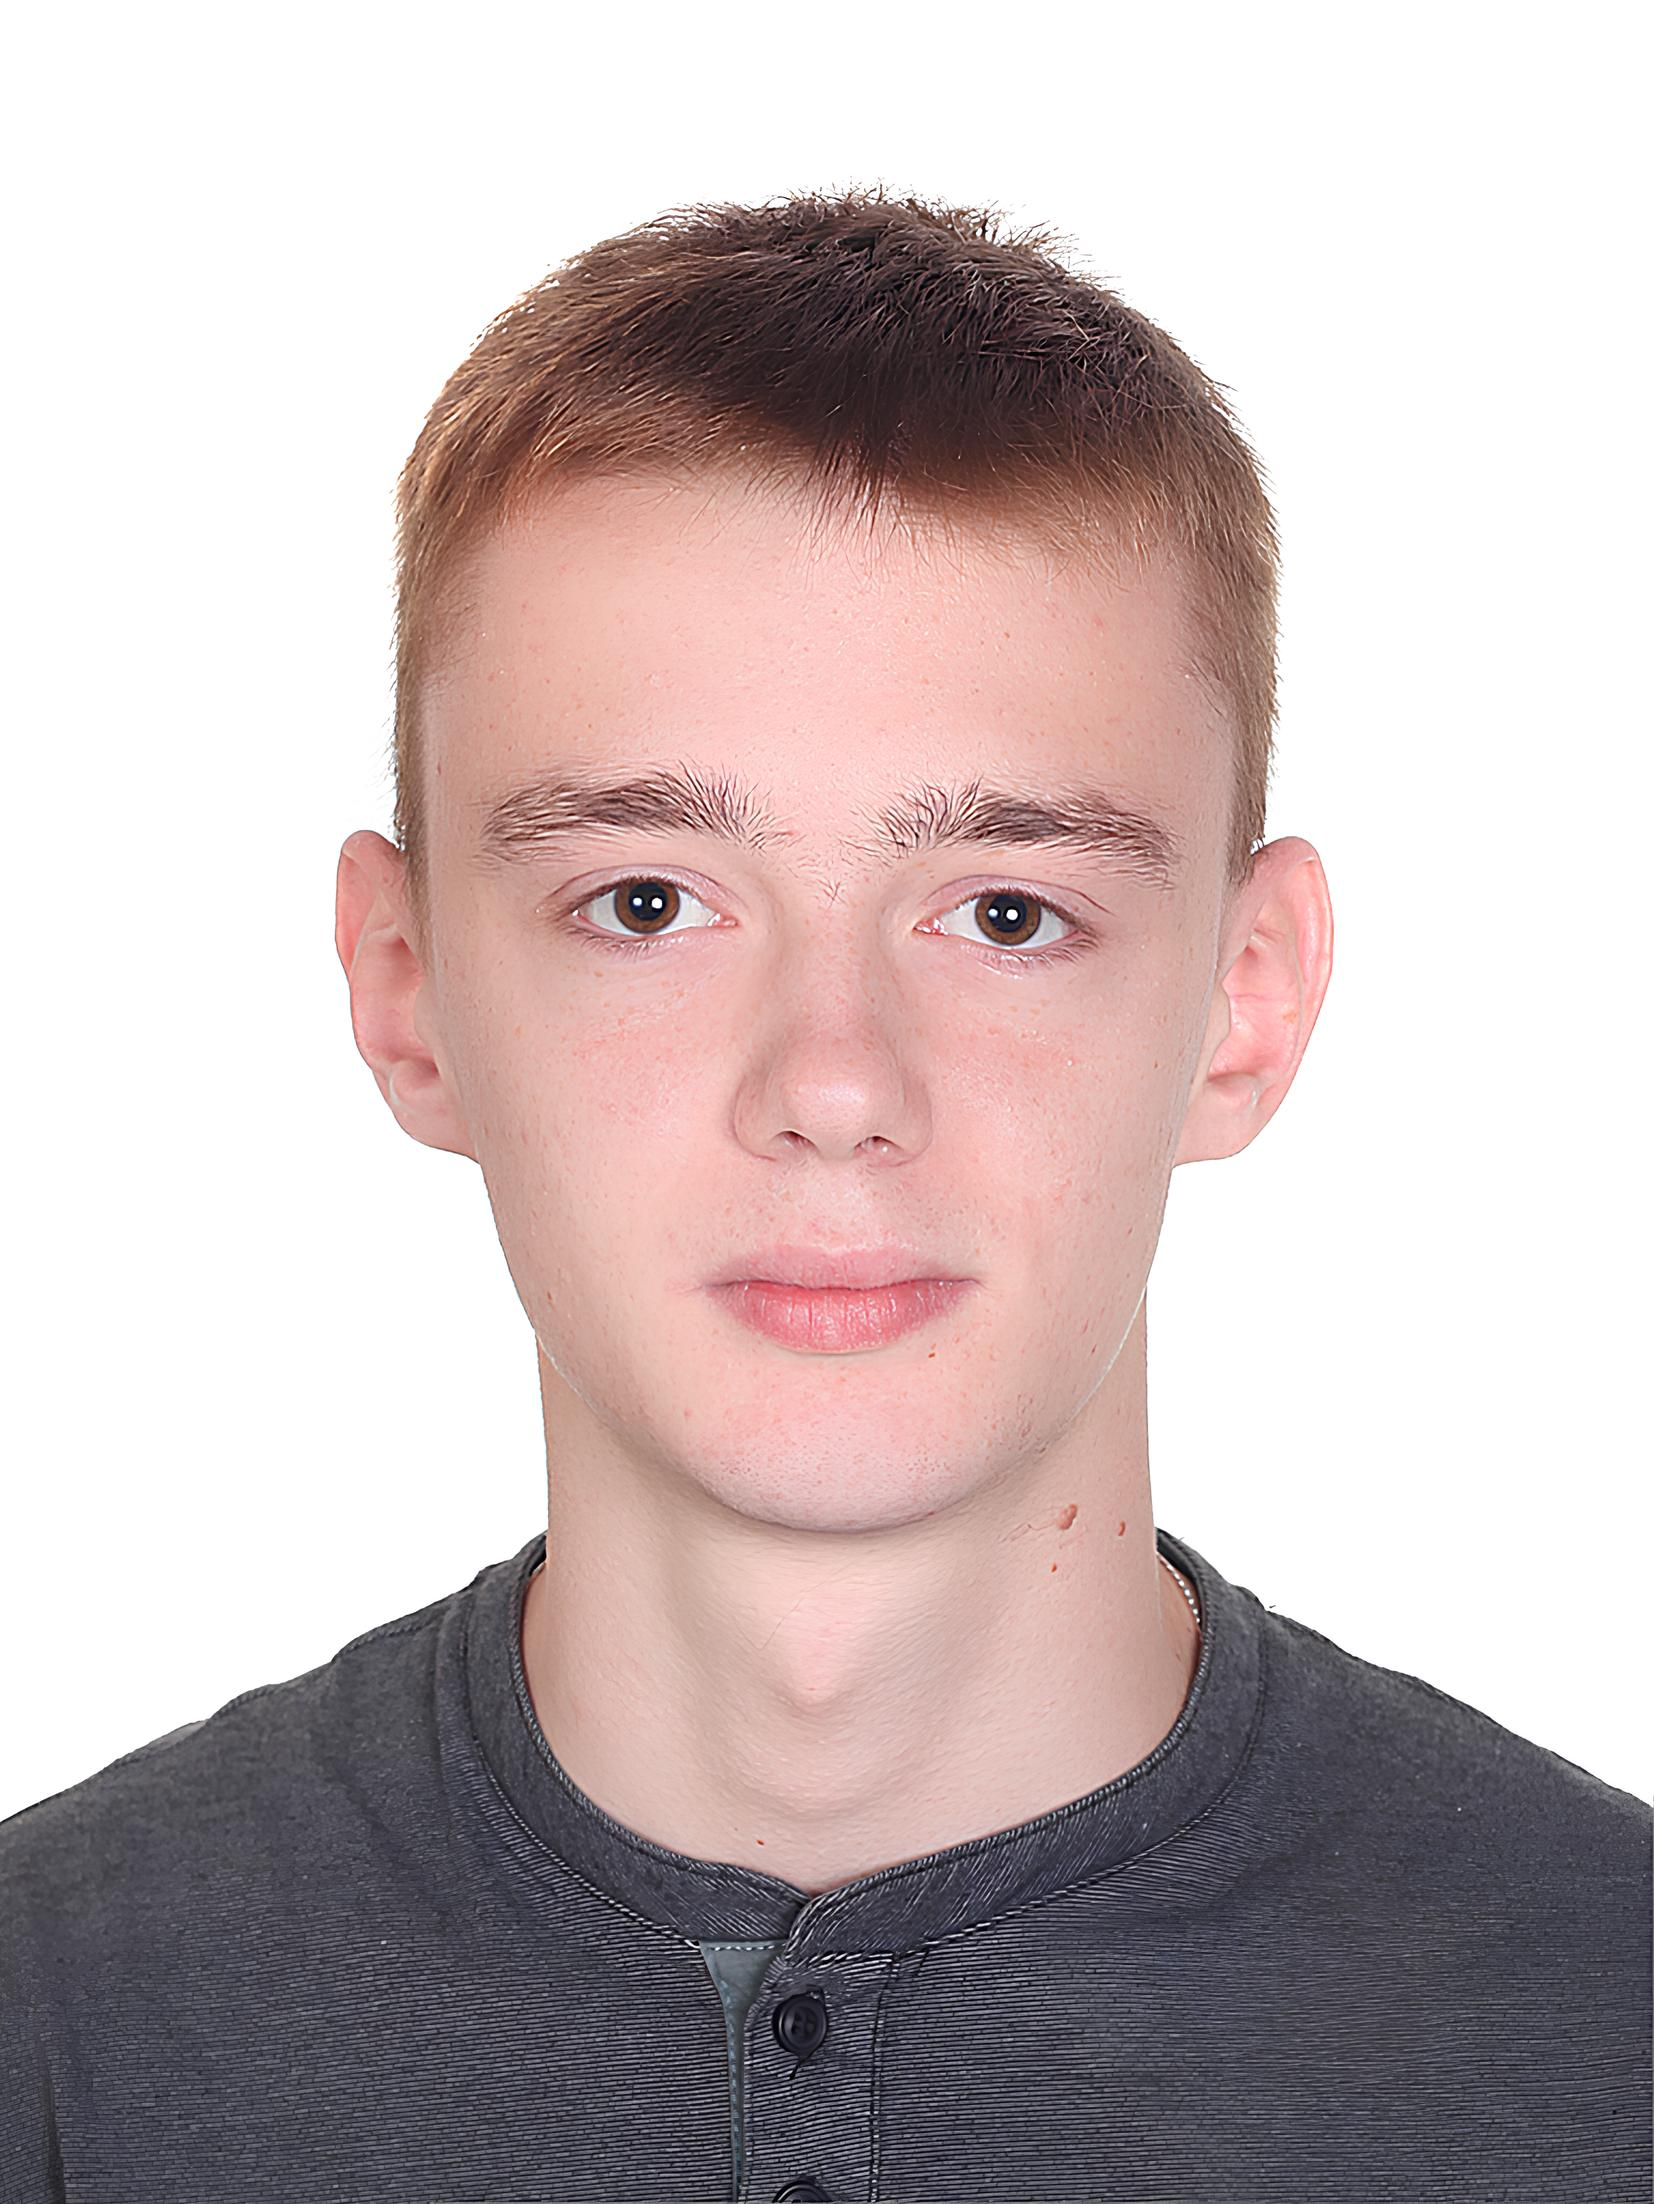
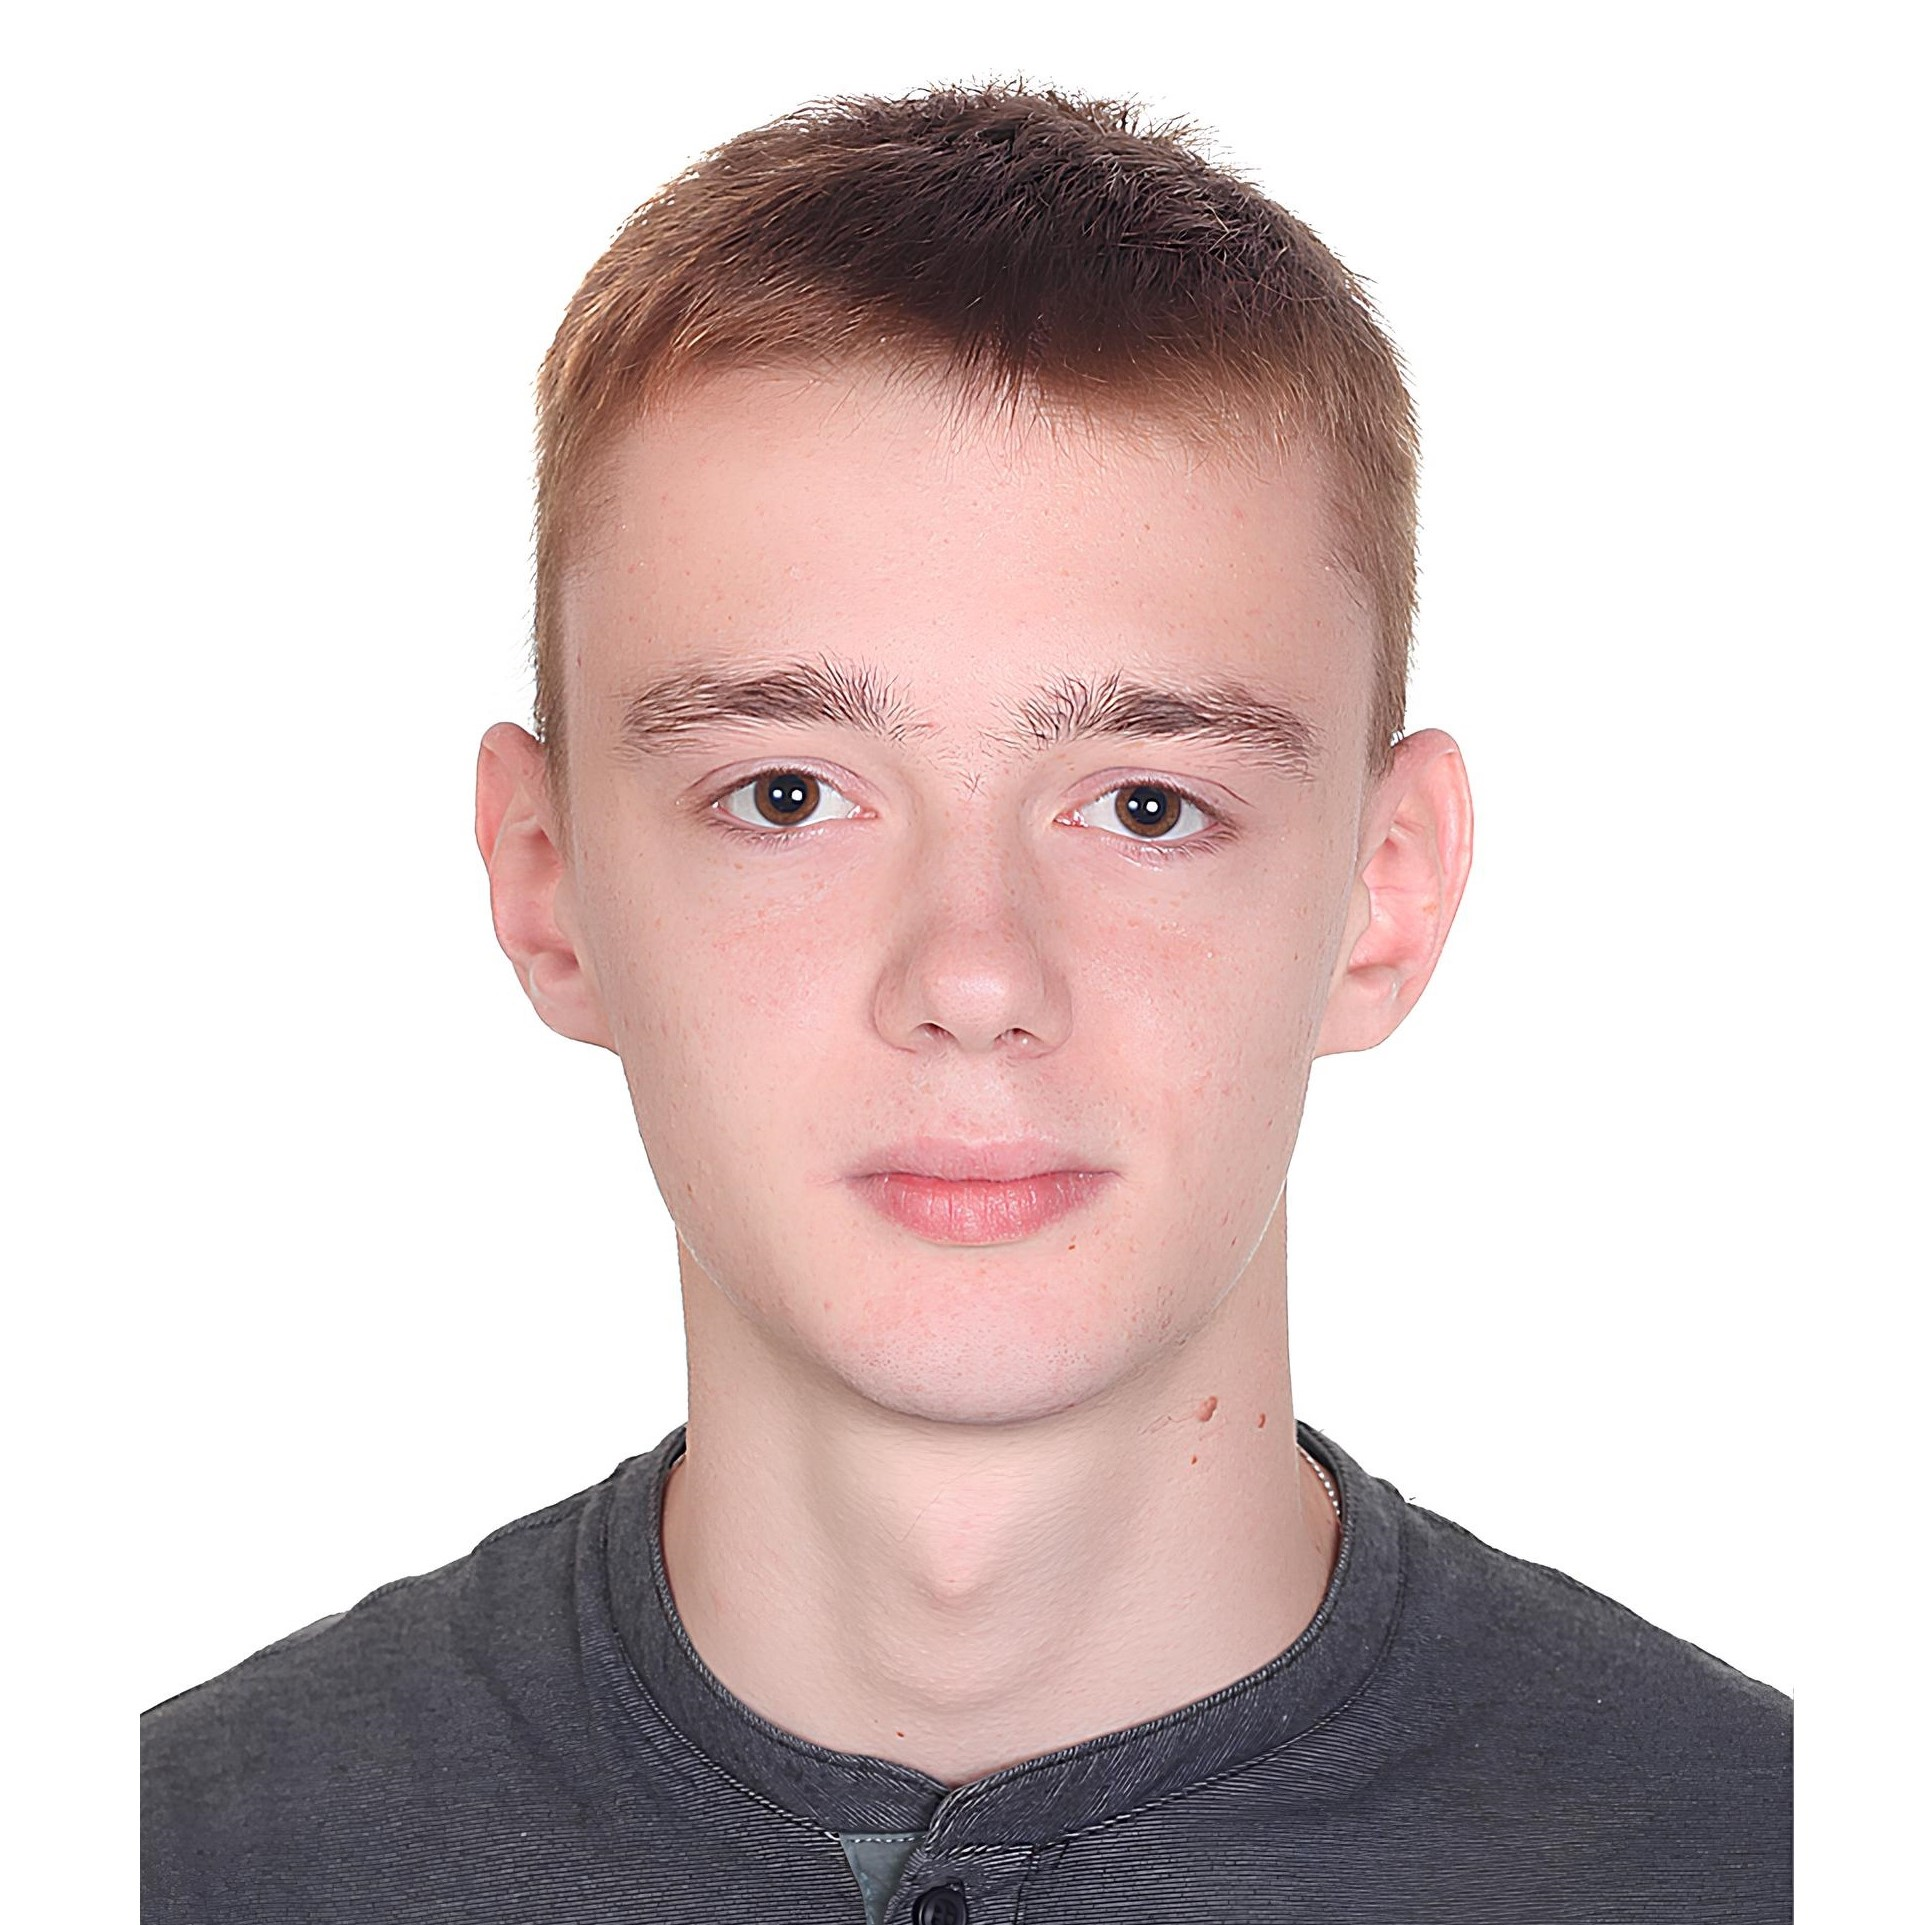
feat: changed design

Changed region(s): [[0.0, 0.0312, 1.0, 1.0]]

diff --git a/lesson_3/index.html b/lesson_3/index.html
@@ -17,10 +17,10 @@
 
 	<nav class="cv__container_menu">
 		<ul>
-			<li><a href="#aboutMe">О себе</a></li>
-			<li><a href="#education">Образование</a></li>
-			<li><a href="#pract">Практика</a></li>
-			<li><a href="#add">Дополнительная информация</a></li>
+			<li><a href="#aboutMe" class="cv__container_point">О себе</a></li>
+			<li><a href="#education" class="cv__container_point">Образование</a></li>
+			<li><a href="#pract" class="cv__container_point">Практика</a></li>
+			<li><a href="#add" class="cv__container_point">Дополнительная информация</a></li>
 		</ul>
 	</nav>
 
@@ -32,7 +32,7 @@
 		<p class="cv__container_target"><b>Цель</b>: Junior C# Developer</P>
 		<section class="cv__content__background cv__container_about">
 
-			<h2 id="aboutMe" class="cv__header__navy">
+			<h2 id="aboutMe" class="cv__header__background">
 				<b>О себе</b>
 			</h2>
 
@@ -43,7 +43,7 @@
 		</section>
 
 		<section class="cv__content__background_off cv__container_education">
-			<h2 id="education" class="cv__header__darkgreen">
+			<h2 id="education" class="cv__header__background_off">
 				<b>Образование</b>
 			</h2>
 
@@ -56,17 +56,17 @@
 			консольную программу конструктор изображений png.
 		</section>
 		<section class="cv__content__background cv__container_practice">
-			<h2 id="pract" class="cv__header__navy">
+			<h2 id="pract" class="cv__header__background">
 				<b>Практика</b>
 			</h2>
 
 			июль 2023 – практика на АО «АК«Туламашзавод». Разработал
 			оконное приложение WinForms для конвертации файлов rtf в xlsx.
-			<p><a href="https://github.com/shabalb">GitHub</a></p>
+			<p><a href="https://github.com/shabalb" style ="color: white;text-decoration: none;">GitHub</a></p>
 		</section>
 		<section class="cv__content__background_off cv__container_adds">
 
-			<h2 id="add" class="cv__header__darkgreen">
+			<h2 id="add" class="cv__header__background_off">
 				<b>Дополнительная информация</b>
 			</h2>
 
@@ -77,18 +77,18 @@
 			– лекции на основе книги С. Мейерса «Эффективный и современный С++».
 
 
-			<h2 class="cv__header__darkgreen">
+			<h2 class="cv__header__background_off">
 				<b>код</b>
 			</h2>
 			<div class="cv__container_git">
-				<div class="container_git1 grid_item"><a href="https://github.com/shabalb/Scene2D_">Графический конструктор
+				<div class="container_git1 grid_item"><a href="https://github.com/shabalb/Scene2D_" class = "cv__gitprojects">Графический конструктор
 						картинок</a></div>
-				<div class="container_git2 grid_item"><a href="https://github.com/shabalb/PhotoCodeTest">Оптический поток на
+				<div class="container_git2 grid_item"><a href="https://github.com/shabalb/PhotoCodeTest" class = "cv__gitprojects">Оптический поток на
 						видео</a></div>
-				<div class="container_git3 grid_item"><a href="https://github.com/shabalb/GatesTask">Асинхронная работа</a></div>
-				<div class="container_git4 grid_item"><a href="https://github.com/shabalb">GitHub</a></div>
-				<div class="container_git5 grid_item"><a href="https://github.com/shabalb">GitHub</a></div>
-				<div class="container_git6 grid_item"><a href="https://github.com/shabalb">GitHub</a></div>
+				<div class="container_git3 grid_item"><a href="https://github.com/shabalb/GatesTask" class = "cv__gitprojects">Асинхронная работа</a></div>
+				<div class="container_git4 grid_item"><a href="https://github.com/shabalb" class = "cv__gitprojects">GitHub</a></div>
+				<div class="container_git5 grid_item"><a href="https://github.com/shabalb" class = "cv__gitprojects">GitHub</a></div>
+				<div class="container_git6 grid_item"><a href="https://github.com/shabalb" class = "cv__gitprojects">GitHub</a></div>
 			</div>
 
 		</section>
@@ -96,9 +96,9 @@
 
 	<img src="cat.jpg" alt="mid photo" class="cv__container_photomid cv__photo" title="mid photo">
 	<footer class="cv__footer cv__container_footer">
-		<a href="mailto:balyshevpavel71@gmail.com">balyshevpavel71@gmail.com</a>
+		<a href="mailto:balyshevpavel71@gmail.com" class = "cv__ref">balyshevpavel71@gmail.com</a>
 		<p>Telegram: @Shabalm</p>
-		<a href="feedback.html">обратная связь</a>
+		<a href="feedback.html" class = "cv__ref">обратная связь</a>
 		<p>89109416828</p>
 	</footer>
 </body>

diff --git a/lesson_3/stylesprev.css b/lesson_3/stylesprev.css
@@ -1,23 +1,16 @@
 .grid_item {
-  background-color: #C4C4C4;
+  background-color: #f0f0f0;
   border: 1px solid #ddd;
   padding: 20px;
   text-align: center;
   border-radius: 8px;
 }
 
-.cv__gitprojects{
-  font-family: system-ui;
-  font-weight: 200;
-  text-decoration: none;
-  color: black;
-}
-
 .cv__container_git {
   display: grid;
   grid-template-columns: 1fr;
   grid-template-rows: 1fr 1fr 1fr 1fr 1fr 1fr;
-  gap: 10px 10px;
+  gap: 0px 0px;
   grid-template-areas:
     "git1"
     "git2"
@@ -87,7 +80,7 @@
     display: grid;
     grid-template-columns: 1fr 1fr;
     grid-template-rows: 1fr 1fr 1fr;
-    gap: 10px 10px;
+    gap: 0px 0px;
     grid-template-areas:
       "git1 git2"
       "git3 git4"
@@ -100,12 +93,11 @@
   .cv__container {
     display: grid;
 
-    /*grid-template-columns: repeat(auto-fit, minmax(400px, 1fr));*/
-	grid-template-columns: 1fr 1fr 0.5fr;
+    grid-template-columns: repeat(auto-fit, minmax(400px, 1fr));
     gap: 0px 0px;
     grid-auto-flow: row;
     grid-template-areas:
-      ". header ."
+      "header . ."
       "menu . photo"
       "content content photomid"
       "footer footer footer";
@@ -115,7 +107,7 @@
     display: grid;
     grid-template-columns: 1fr 1fr 1fr;
     grid-template-rows: 1fr 1fr 1fr;
-    gap: 10px 10px;
+    gap: 0px 0px;
     grid-template-areas:
       "git1 git2 git3"
       "git4 git5 git6"
@@ -129,14 +121,6 @@
 
 .cv__container_menu {
   grid-area: menu;
-  color: white;
-}
-
-.cv__container_point {
-  color: white;
-  text-decoration: none;
-  font-family: system-ui;
-  font-weight: 200;
 }
 
 .cv__container_content {
@@ -190,61 +174,49 @@
   min-width: 100px;
 }
 
-.cv__header__background {
-  font-family: system-ui;
-  text-align: center;
-  font-weight: 200;
-  color: #FFB800;
-  background: #252525;
+.cv__header__navy {
+  color: navy;
+  font-weight: bold;
+  background: #99C5B5;
+  font-style: oblique;
   border-radius: 20px;
 }
 
-.cv__header__background_off {
-  font-family: system-ui;
-  text-align: center;
-  font-weight: 200;
-  color: #FFB800;
+.cv__header__darkgreen {
+  color: darkgreen;
+  font-weight: bold;
+  background: #99C5B5;
+  font-style: oblique;
   border-radius: 8px;
   border-width: 30px;
 }
 
 .cv__header {
-  color: #FFB800;
-  font-weight: 200;
-  justify-content: center;
-  font-family: system-ui;
+  color: #706C61;
+  font-weight: bold;
+  font-style: oblique;
   font-size: xx-large;
   text-align: center;
 }
 
 .cv__content__background {
-  font-family: system-ui;
-  font-weight: 200;
-  color: white;
-  background: #252525;
+  color: #221F18;
+  font-weight: normal;
+  background: #99C5B5;
   border-radius: 5px;
 }
 
 .cv__content__background_off {
-  color: white;
-  font-family: system-ui;
-  font-weight: 200;
+  color: #221F18;
+
 }
 
 .cv {
-  background: black;
+  background: linear-gradient(white, #AFECE7);
 }
 
 .cv__footer {
-  color: black;
-  background: #FFB800;
-  font-family: system-ui;
-  font-weight: 350;
-}
-
-.cv__ref{
-  text-decoration: none;
-  color: black;
+  background: #899E8B;
 }
 
 .cv__photo {
